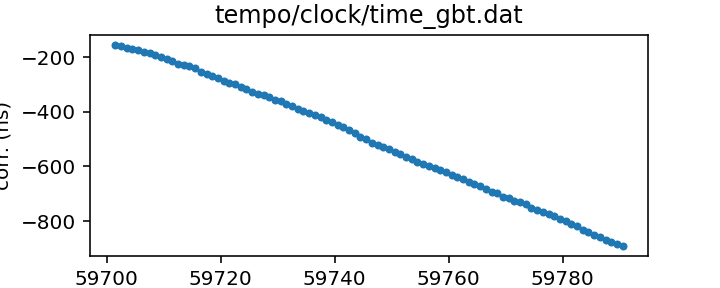
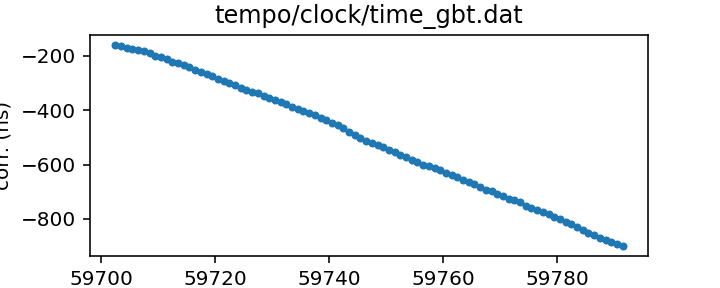
Routine gh-pages update from Github action Mon Aug  1 20:38:08 UTC 2022

diff --git a/status.md b/status.md
@@ -13,17 +13,17 @@ name of each clock file links to a page with more details.
 
 | Name | File | Corrections start | Corrections end | Last check date | Last check result 
 |:--- |:--- | --- | --- | --- |:--- 
-| [GPS to UTC](T2runtime/clock/gps2utc.clk.html) | `T2runtime/clock/gps2utc.clk` | 1993-01-01 MJD 48988.0 | 2022-06-29 MJD 59759.0 | 2022-07-31 | Unchanged 
-| [GPS to UTC (Combined Clock)](T2runtime/clock/gps2utc_cc.clk.html) | `T2runtime/clock/gps2utc_cc.clk` | 1993-01-01 MJD 48988.0 | 2022-06-29 MJD 59759.0 | 2022-07-31 | Unchanged 
-| [GPS to UTC (Corrected)](T2runtime/clock/gps2utc_c0p.clk.html) | `T2runtime/clock/gps2utc_c0p.clk` | 2010-12-29 MJD 55559.0 | 2022-06-29 MJD 59759.0 | 2022-07-31 | Unchanged 
-| [GBT](tempo/clock/time_gbt.dat.html) | `tempo/clock/time_gbt.dat` | 2000-12-31 MJD 51909.5 | 2022-07-30 MJD 59790.5 | 2022-07-31 | Updated 
-| [GBT (TEMPO2 converted from TEMPO)](T2runtime/clock/gbt2gps.clk.html) | `T2runtime/clock/gbt2gps.clk` | 2000-12-31 MJD 51909.5 | 2022-07-30 MJD 59790.5 | 2022-07-31 | Updated 
+| [GPS to UTC](T2runtime/clock/gps2utc.clk.html) | `T2runtime/clock/gps2utc.clk` | 1993-01-01 MJD 48988.0 | 2022-06-29 MJD 59759.0 | 2022-08-01 | Unchanged 
+| [GPS to UTC (Combined Clock)](T2runtime/clock/gps2utc_cc.clk.html) | `T2runtime/clock/gps2utc_cc.clk` | 1993-01-01 MJD 48988.0 | 2022-06-29 MJD 59759.0 | 2022-08-01 | Unchanged 
+| [GPS to UTC (Corrected)](T2runtime/clock/gps2utc_c0p.clk.html) | `T2runtime/clock/gps2utc_c0p.clk` | 2010-12-29 MJD 55559.0 | 2022-06-29 MJD 59759.0 | 2022-08-01 | Unchanged 
+| [GBT](tempo/clock/time_gbt.dat.html) | `tempo/clock/time_gbt.dat` | 2000-12-31 MJD 51909.5 | 2022-07-31 MJD 59791.5 | 2022-08-01 | Updated 
+| [GBT (TEMPO2 converted from TEMPO)](T2runtime/clock/gbt2gps.clk.html) | `T2runtime/clock/gbt2gps.clk` | 2000-12-31 MJD 51909.5 | 2022-07-31 MJD 59791.5 | 2022-08-01 | Updated 
 | [Jodrell Bank](T2runtime/clock/jb2gps.clk.html) | `T2runtime/clock/jb2gps.clk` | 2006-10-13 MJD 54021.4 | 2021-11-03 MJD 59521.0 | 2022-07-27 | Unchanged 
 | [Jodrell Bank Roach](T2runtime/clock/jbroach2jb.clk.html) | `T2runtime/clock/jbroach2jb.clk` | 2006-10-13 MJD 54021.4 | 2018-03-20 MJD 58197.6 | 2022-07-27 | Unchanged 
 | [Jodrell Bank DFB](T2runtime/clock/jbdfb2jb.clk.html) | `T2runtime/clock/jbdfb2jb.clk` | 2006-10-13 MJD 54021.4 | 2017-05-11 MJD 57884.0 | 2022-07-27 | Unchanged 
-| [Meerkat (observatory)](T2runtime/clock/mk2utc_observatory.clk.html) | `T2runtime/clock/mk2utc_observatory.clk` | 2019-01-01 MJD 58484.0 | 2022-07-12 MJD 59773.0 | 2022-07-25 | Updated 
-| [Leap seconds](tempo/clock/leap.sec.html) | `tempo/clock/leap.sec` | 1972-07-01 MJD 41499.0 | 2017-01-01 MJD 57754.0 | 2022-07-31 | Unchanged 
-| [UT1 table](tempo/clock/ut1.dat.html) | `tempo/clock/ut1.dat` | 1973-01-02 MJD 41684.0 | 2023-08-05 MJD 60161.0 | 2022-07-31 | Unchanged 
+| [Meerkat (observatory)](T2runtime/clock/mk2utc_observatory.clk.html) | `T2runtime/clock/mk2utc_observatory.clk` | 2019-01-01 MJD 58484.0 | 2022-07-12 MJD 59773.0 | 2022-08-01 | Unchanged 
+| [Leap seconds](tempo/clock/leap.sec.html) | `tempo/clock/leap.sec` | 1972-07-01 MJD 41499.0 | 2017-01-01 MJD 57754.0 | 2022-08-01 | Unchanged 
+| [UT1 table](tempo/clock/ut1.dat.html) | `tempo/clock/ut1.dat` | 1973-01-02 MJD 41684.0 | 2023-08-05 MJD 60161.0 | 2022-08-01 | Unchanged 
 
 
 
@@ -64,7 +64,7 @@ name of each clock file links to a page with more details.
 | Name | File | Corrections start | Corrections end | Last check date | Last check result 
 |:--- |:--- | --- | --- | --- |:--- 
 | [GPS to UTC (TEMPO2)](T2runtime/clock/gps2utc_tempo2.clk.html) | `T2runtime/clock/gps2utc_tempo2.clk` | 1996-03-27 MJD 50169.0 | 2020-10-27 MJD 59149.0 | 2022-07-28 | Unchanged 
-| [GBT (TEMPO2)](T2runtime/clock/gbt2gps_tempo2.clk.html) | `T2runtime/clock/gbt2gps_tempo2.clk` | 2000-12-31 MJD 51909.5 | 2020-02-25 MJD 58904.5 | 2022-07-25 | Unchanged 
+| [GBT (TEMPO2)](T2runtime/clock/gbt2gps_tempo2.clk.html) | `T2runtime/clock/gbt2gps_tempo2.clk` | 2000-12-31 MJD 51909.5 | 2020-02-25 MJD 58904.5 | 2022-08-01 | Unchanged 
 | [Jodrell Bank (TEMPO)](tempo/clock/time_jb.dat.html) | `tempo/clock/time_jb.dat` | 2006-10-13 MJD 54021.4 | 2019-05-13 MJD 58616.2 | 2022-07-28 | Unchanged 
 | [VLA](tempo/clock/time_vla.dat.html) | `tempo/clock/time_vla.dat` | 1990-10-27 MJD 48191.2 | 2021-03-07 MJD 59280.5 | 2022-07-28 | **Failed to download** 
 | [VLA (TEMPO2)](T2runtime/clock/vla2gps.clk.html) | `T2runtime/clock/vla2gps.clk` | 2015-02-01 MJD 57054.6 | 2021-03-07 MJD 59280.5 | 2022-07-27 | Unchanged 

diff --git a/T2runtime/clock/gbt2gps.clk.md b/T2runtime/clock/gbt2gps.clk.md
@@ -23,14 +23,13 @@ If questions arise about the conversion, contact Anne Archibald
 | Format | tempo2 |
 | Bogus last correction | False |
 | Clock file start | 2000-12-31 MJD 51909.5 |
-| Clock file end | 2022-07-30 MJD 59790.5 |
+| Clock file end | 2022-07-31 MJD 59791.5 |
 | Update interval (days) | 1 |
-| Last update attempt | 2022-07-31 |
+| Last update attempt | 2022-08-01 |
 | Last update result | Updated |
 
 Log entries from the last few update attempts:
 ```
-2022-07-22 20:35:18.641 - Updated
 2022-07-23 20:33:48.614 - Updated
 2022-07-24 20:34:22.928 - Updated
 2022-07-25 20:33:27.419 - Updated
@@ -40,12 +39,13 @@ Log entries from the last few update attempts:
 2022-07-29 20:35:58.593 - Updated
 2022-07-30 20:32:10.692 - Updated
 2022-07-31 20:33:29.497 - Updated
+2022-08-01 20:37:41.202 - Updated
 ```
 [Full log](https://raw.githubusercontent.com/ipta/pulsar-clock-corrections/main/log/T2runtime/clock/gbt2gps.clk.log)
 
 Leading comments from clock file:
 
-    # This file was automatically converted from tempo/clock/time_gbt.dat on 2022-07-31 20:33:29.412
+    # This file was automatically converted from tempo/clock/time_gbt.dat on 2022-08-01 20:37:41.122
 
 
 

diff --git a/tempo/clock/time_gbt.dat.md b/tempo/clock/time_gbt.dat.md
@@ -18,14 +18,13 @@ If questions arise, contact Ryan S. Lynch <rlynch@nrao.edu>.
 | Format | tempo |
 | Bogus last correction | False |
 | Clock file start | 2000-12-31 MJD 51909.5 |
-| Clock file end | 2022-07-30 MJD 59790.5 |
+| Clock file end | 2022-07-31 MJD 59791.5 |
 | Update interval (days) | 1 |
-| Last update attempt | 2022-07-31 |
+| Last update attempt | 2022-08-01 |
 | Last update result | Updated |
 
 Log entries from the last few update attempts:
 ```
-2022-07-22 20:35:18.570 - Updated
 2022-07-23 20:33:48.530 - Updated
 2022-07-24 20:34:22.837 - Updated
 2022-07-25 20:33:26.969 - Updated
@@ -35,6 +34,7 @@ Log entries from the last few update attempts:
 2022-07-29 20:35:58.517 - Updated
 2022-07-30 20:32:10.621 - Updated
 2022-07-31 20:33:29.410 - Updated
+2022-08-01 20:37:40.878 - Updated
 ```
 [Full log](https://raw.githubusercontent.com/ipta/pulsar-clock-corrections/main/log/tempo/clock/time_gbt.dat.log)
 

diff --git a/T2runtime/clock/gbt2gps_tempo2.clk.md b/T2runtime/clock/gbt2gps_tempo2.clk.md
@@ -16,12 +16,11 @@ This file is pulled from the TEMPO2 repository and may not be fully up-to-date.
 | Clock file start | 2000-12-31 MJD 51909.5 |
 | Clock file end | 2020-02-25 MJD 58904.5 |
 | Update interval (days) | 7 |
-| Last update attempt | 2022-07-25 |
+| Last update attempt | 2022-08-01 |
 | Last update result | Unchanged |
 
 Log entries from the last few update attempts:
 ```
-2022-05-26 08:50:57.933 - Unchanged
 2022-06-07 15:28:20.238 - Unchanged
 2022-06-15 16:45:24.935 - Unchanged
 2022-06-22 20:32:52.754 - Unchanged
@@ -31,6 +30,7 @@ Log entries from the last few update attempts:
 2022-07-11 20:34:33.244 - Unchanged
 2022-07-18 20:34:26.856 - Unchanged
 2022-07-25 20:33:27.345 - Unchanged
+2022-08-01 20:37:41.120 - Unchanged
 ```
 [Full log](https://raw.githubusercontent.com/ipta/pulsar-clock-corrections/main/log/T2runtime/clock/gbt2gps_tempo2.clk.log)
 

diff --git a/T2runtime/clock/gps2utc_c0p.clk.md b/T2runtime/clock/gps2utc_c0p.clk.md
@@ -30,12 +30,11 @@ about the BIPM's published corrections, contact <tai@bipm.org>.
 | Clock file start | 2010-12-29 MJD 55559.0 |
 | Clock file end | 2022-06-29 MJD 59759.0 |
 | Update interval (days) | 1 |
-| Last update attempt | 2022-07-31 |
+| Last update attempt | 2022-08-01 |
 | Last update result | Unchanged |
 
 Log entries from the last few update attempts:
 ```
-2022-07-22 20:35:18.216 - Unchanged
 2022-07-23 20:33:48.139 - Unchanged
 2022-07-24 20:34:21.700 - Unchanged
 2022-07-25 20:33:26.005 - Unchanged
@@ -45,6 +44,7 @@ Log entries from the last few update attempts:
 2022-07-29 20:35:57.618 - Unchanged
 2022-07-30 20:32:10.241 - Unchanged
 2022-07-31 20:33:28.498 - Unchanged
+2022-08-01 20:37:40.533 - Unchanged
 ```
 [Full log](https://raw.githubusercontent.com/ipta/pulsar-clock-corrections/main/log/T2runtime/clock/gps2utc_c0p.clk.log)
 

diff --git a/T2runtime/clock/gps2utc_cc.clk.md b/T2runtime/clock/gps2utc_cc.clk.md
@@ -29,12 +29,11 @@ about the BIPM's published corrections, contact <tai@bipm.org>.
 | Clock file start | 1993-01-01 MJD 48988.0 |
 | Clock file end | 2022-06-29 MJD 59759.0 |
 | Update interval (days) | 1 |
-| Last update attempt | 2022-07-31 |
+| Last update attempt | 2022-08-01 |
 | Last update result | Unchanged |
 
 Log entries from the last few update attempts:
 ```
-2022-07-22 20:35:18.205 - Unchanged
 2022-07-23 20:33:48.122 - Unchanged
 2022-07-24 20:34:21.685 - Unchanged
 2022-07-25 20:33:25.993 - Unchanged
@@ -44,6 +43,7 @@ Log entries from the last few update attempts:
 2022-07-29 20:35:57.607 - Unchanged
 2022-07-30 20:32:10.229 - Unchanged
 2022-07-31 20:33:28.486 - Unchanged
+2022-08-01 20:37:40.520 - Unchanged
 ```
 [Full log](https://raw.githubusercontent.com/ipta/pulsar-clock-corrections/main/log/T2runtime/clock/gps2utc_cc.clk.log)
 

diff --git a/T2runtime/clock/gps2utc.clk.md b/T2runtime/clock/gps2utc.clk.md
@@ -32,12 +32,11 @@ about the BIPM's published corrections, contact <tai@bipm.org>.
 | Clock file start | 1993-01-01 MJD 48988.0 |
 | Clock file end | 2022-06-29 MJD 59759.0 |
 | Update interval (days) | 1 |
-| Last update attempt | 2022-07-31 |
+| Last update attempt | 2022-08-01 |
 | Last update result | Unchanged |
 
 Log entries from the last few update attempts:
 ```
-2022-07-22 20:35:18.172 - Unchanged
 2022-07-23 20:33:48.067 - Unchanged
 2022-07-24 20:34:21.641 - Unchanged
 2022-07-25 20:33:25.954 - Unchanged
@@ -47,6 +46,7 @@ Log entries from the last few update attempts:
 2022-07-29 20:35:57.575 - Unchanged
 2022-07-30 20:32:10.196 - Unchanged
 2022-07-31 20:33:28.444 - Unchanged
+2022-08-01 20:37:40.481 - Unchanged
 ```
 [Full log](https://raw.githubusercontent.com/ipta/pulsar-clock-corrections/main/log/T2runtime/clock/gps2utc.clk.log)
 

diff --git a/tempo/clock/leap.sec.md b/tempo/clock/leap.sec.md
@@ -21,12 +21,11 @@ If there are any questions, contact Anne Archibald
 | File start | 1972-07-01 MJD 41499.0 |
 | File end | 2017-01-01 MJD 57754.0 |
 | Update interval (days) | 0 |
-| Last update attempt | 2022-07-31 |
+| Last update attempt | 2022-08-01 |
 | Last update result | Unchanged |
 
 Log entries from the last few update attempts:
 ```
-2022-07-22 20:35:18.676 - Unchanged
 2022-07-23 20:33:48.655 - Unchanged
 2022-07-24 20:34:22.968 - Unchanged
 2022-07-25 20:33:31.292 - Unchanged
@@ -36,5 +35,6 @@ Log entries from the last few update attempts:
 2022-07-29 20:35:58.624 - Unchanged
 2022-07-30 20:32:10.725 - Unchanged
 2022-07-31 20:33:29.547 - Unchanged
+2022-08-01 20:37:43.916 - Unchanged
 ```
 [Full log](https://raw.githubusercontent.com/ipta/pulsar-clock-corrections/main/log/tempo/clock/leap.sec.log)

diff --git a/tempo/clock/ut1.dat.md b/tempo/clock/ut1.dat.md
@@ -30,12 +30,11 @@ If there are any questions, contact Anne Archibald
 | File start | 1973-01-02 MJD 41684.0 |
 | File end | 2023-08-05 MJD 60161.0 |
 | Update interval (days) | 0 |
-| Last update attempt | 2022-07-31 |
+| Last update attempt | 2022-08-01 |
 | Last update result | Unchanged |
 
 Log entries from the last few update attempts:
 ```
-2022-07-22 20:35:26.343 - Unchanged
 2022-07-23 20:33:56.494 - Unchanged
 2022-07-24 20:34:35.707 - Unchanged
 2022-07-25 20:33:41.041 - Unchanged
@@ -45,5 +44,6 @@ Log entries from the last few update attempts:
 2022-07-29 20:36:09.125 - Unchanged
 2022-07-30 20:32:18.061 - Unchanged
 2022-07-31 20:33:41.709 - Unchanged
+2022-08-01 20:37:51.824 - Unchanged
 ```
 [Full log](https://raw.githubusercontent.com/ipta/pulsar-clock-corrections/main/log/tempo/clock/ut1.dat.log)

diff --git a/T2runtime/clock/mk2utc_observatory.clk.md b/T2runtime/clock/mk2utc_observatory.clk.md
@@ -21,8 +21,8 @@ If questions arise, contact Ryan Shannon <rshannon@swin.edu.au>
 | Clock file start | 2019-01-01 MJD 58484.0 |
 | Clock file end | 2022-07-12 MJD 59773.0 |
 | Update interval (days) | 7 |
-| Last update attempt | 2022-07-25 |
-| Last update result | Updated |
+| Last update attempt | 2022-08-01 |
+| Last update result | Unchanged |
 
 Log entries from the last few update attempts:
 ```
@@ -33,6 +33,7 @@ Log entries from the last few update attempts:
 2022-07-11 20:34:36.789 - Updated
 2022-07-18 20:34:30.484 - Unchanged
 2022-07-25 20:33:31.267 - Updated
+2022-08-01 20:37:43.896 - Unchanged
 ```
 [Full log](https://raw.githubusercontent.com/ipta/pulsar-clock-corrections/main/log/T2runtime/clock/mk2utc_observatory.clk.log)
 
